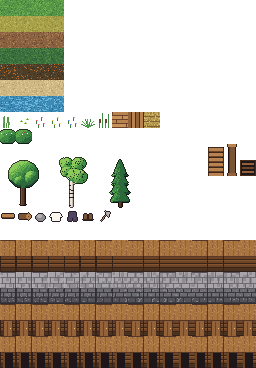
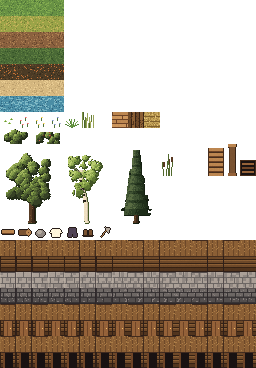
Placeholders redrawn in the chosen manner: A1 people, middle palette, B4 forms
Trees from leaf clumps (oak over 4x5 cells, slanted birch, tall spruce),
uneven bushes, tall-grass tufts and cattails, log-toned wall tops and
ceilings, people A1 (with a smaller head and a mouth, less doll-like)
from the front, side and back with steps, one dark warm outline on
people and interactive things, soft shade edges on the world, and the
middle palette with deeper half-tones over the whole atlas.

diff --git a/tools/art/make_placeholders.py b/tools/art/make_placeholders.py
@@ -1,10 +1,12 @@
 #!/usr/bin/env python3
-"""Temporary art for the base pack: a tile atlas, a chibi sheet and the
+"""Temporary art for the base pack: a tile atlas, a people sheet and the
 visual definitions that tie content ids to them (content/base/visuals.json).
 
-These are placeholders in the spirit of probe B2 (tile 16, chibi 20x32,
-coloured outline), drawn by code so the game can run before production art
-exists. Production art replaces the PNGs and visuals.json; no code changes.
+Placeholders in the manner chosen by the author (ART_STANDARD v2, probe B4):
+the middle palette, leaf-clump trees, earthy forms, A1 people (18x32, about
+three heads) with one dark outline, soft shade edges on the world. Drawn by
+code so the game runs before production art exists; production art
+replaces the PNGs and visuals.json without code changes.
 Usage: tools/art/make_placeholders.py   (writes into content/base/)
 """
 import json
@@ -19,13 +21,18 @@ ROOT = Path(__file__).resolve().parents[2]
 sys.path.insert(0, str(ROOT / "tools" / "art_probes"))
 sys.argv = [sys.argv[0], "/tmp"]  # make_probes reads an output dir it will not use here
 import make_probes as mp  # noqa: E402
+import make_probe_b3 as b3  # noqa: E402
+import make_probe_b4 as b4  # noqa: E402
 from make_probes import P, hx, lerp, h2, vnoise  # noqa: E402
+
+MIDDLE = b4.PALETTES["middle"]
 
 T = 16
 OUT = ROOT / "content" / "base"
-STYLE = dict(outline="colored", detail=1)
-# Characters and interactive things get a darker outline than the scenery (ADR-0001).
-STRONG = dict(outline="ink", detail=1)
+# The world: no full outline (soft shade edges are drawn by the B4 drawers).
+STYLE = dict(outline=None, detail=1)
+# People and interactive things: one dark warm outline (ADR-0001 revision).
+STRONG = "people"
 
 
 class Atlas:
@@ -42,6 +49,22 @@ class Atlas:
             "atlas": "art/tiles.png", "rect": [col * T, row * T, w // variants, h],
             "origin": list(origin), "mode": mode, "variants": variants,
         })
+
+
+def strong(img):
+    """The people/interactive outline: one dark warm colour around the shape."""
+    w, h = img.size
+    src = img.load()
+    out = img.copy()
+    dst = out.load()
+    for y in range(h):
+        for x in range(w):
+            if src[x, y][3]:
+                continue
+            if any(0 <= x + dx < w and 0 <= y + dy < h and src[x + dx, y + dy][3]
+                   for dx, dy in ((1, 0), (-1, 0), (0, 1), (0, -1))):
+                dst[x, y] = b4.OUTLINE_PEOPLE
+    return out
 
 
 def ground_tile(kind, variant):
@@ -143,8 +166,8 @@ def wall(kind, mask, opened=False):
         top = [hx("6d6b72"), hx("8f8c92"), hx("a8a4a8"), hx("c4c0c0")]
         face = [hx("3a3840"), hx("55535a"), hx("6d6b72"), hx("85828a")]
     else:
-        top = [hx("6e4428"), hx("93613a"), hx("a8743f"), hx("c08a52")]
-        face = [hx("3a2416"), hx("4e3220"), hx("6e4428"), hx("84552f")]
+        top = [b4.R["log"][1], b4.R["log"][2], b4.R["log"][3], b4.R["log"][4]]
+        face = [b4.R["log"][0], b4.R["log"][1], b4.R["log"][2], b4.R["log"][3]]
     for y in range(2 * T):
         for x in range(T):
             wx = x + mask * 3  # vary the pattern a little between variants
@@ -214,7 +237,7 @@ def door_open():
     d.rectangle((0, 6, 15, 31), hx("2a1e1c"))
     d.rectangle((1, 6, 3, 31), P["wood"][1])
     d.line((1, 6, 1, 31), P["wood"][3])
-    return mp.outline(img, STRONG)
+    return strong(img)
 
 
 def icon(kind):
@@ -243,7 +266,7 @@ def icon(kind):
     elif kind == "axe":
         d.line((5, 12, 11, 4), P["wood"][3])
         d.polygon([(9, 3), (13, 4), (12, 8)], P["stone"][3])
-    return mp.outline(img, STRONG)
+    return strong(img)
 
 
 def building_tiles():
@@ -262,9 +285,11 @@ def building_tiles():
     cp = ceiling.load()
     for y in range(T):
         for x in range(T):
-            c = P["wood"][2] if (x // 4) % 2 == 0 else P["wood"][3]
+            c = b4.R["log"][2] if (x // 4) % 2 == 0 else b4.R["log"][3]
             if x % 4 == 3:
-                c = P["wood"][0]
+                c = b4.R["log"][0]
+            if h2(x, y, 13) > 0.9:
+                c = b4.R["log"][1]
             cp[x, y] = c
     thatch = Image.new("RGBA", (T, T))
     tp = thatch.load()
@@ -291,45 +316,50 @@ def building_tiles():
     d.line((5, 2, 5, 31), P["bark"][1])
     d.rectangle((4, 0, 11, 2), P["wood"][3])
     d.rectangle((4, 29, 11, 31), P["wood"][2])
-    return floor, ceiling, thatch, mp.outline(stairs, STYLE), mp.outline(column, STYLE)
+    return floor, ceiling, thatch, b4.soft_edge(stairs, P["wood"][0]), b4.soft_edge(column, P["bark"][0])
 
 
-def chibi_sheet():
-    """Rows: S, SE, E, NE, N (W-side rows are mirrored at run time).
-    Columns: idle, step A, step B. Frames 48x48, feet at (24, 44)."""
+def people_sheet():
+    """A1 people (ART_STANDARD v2). Rows: S, SE, E, NE, N (the west side is
+    mirrored at run time); columns: idle, step A, step B. Frames 48x48,
+    feet at (24, 45)."""
     F = 48
     sheet = Image.new("RGBA", (3 * F, 5 * F), (0, 0, 0, 0))
-    look = dict(mp.LOOKS["player"])
     for row, view in enumerate(["s", "se", "e", "ne", "n"]):
         for col in range(3):
-            spr = chibi_view(20, 32, look, view, col)
-            sheet.alpha_composite(spr, (col * F + F // 2 - spr.width // 2, row * F + 45 - spr.height + (1 if col else 0)))
-    return sheet
+            spr = person_view("villager", view, col)
+            sheet.alpha_composite(spr, (col * F + F // 2 - spr.width // 2, row * F + 46 - spr.height + (1 if col else 0)))
+    return b3.tone(sheet, MIDDLE, people=True)
 
 
-def chibi_view(w, h, look, view, frame):
-    """The probe chibi, turned: back views show hair, side views one eye."""
-    spr = mp.chibi(w, h, look, dict(outline=None, detail=1))
+def person_view(look_name, view, frame):
+    """The A1 figure turned: from behind the head is hair, from the side the
+    face shifts toward the way it looks; steps move the legs."""
+    f = b4.PEOPLE["A1b"]
+    look = b4.LOOKS[look_name]
+    spr = b3.figure(look, f, None)
     px = spr.load()
+    h = f["h"]
+    head_bottom = int(h * f["head"]) + 2
+    skin = [c[:3] for c in look["skin"]]
     if view in ("n", "ne"):
-        # Cover the face with hair.
-        for y in range(spr.height):
+        for y in range(head_bottom):
             for x in range(spr.width):
                 c = px[x, y]
-                if c[3] and c[:3] in [s[:3] for s in look["skin"]] + [look["eyes"][:3], P["ink"][:3], P["white"][:3]] \
-                        and y < h * 0.5:
-                    px[x, y] = look["hair"][1]
+                if c[3] and (c[:3] in skin or c[:3] != look["hair"][1][:3] and y > 2 and c[:3] not in [k[:3] for k in look["hair"]]):
+                    px[x, y] = look["hair"][1] if x < spr.width * 0.6 else look["hair"][0]
     elif view in ("e", "se"):
         shift = 2 if view == "e" else 1
-        face = spr.crop((0, int(h * 0.25), spr.width, int(h * 0.45)))
-        spr.paste(Image.new("RGBA", face.size, (0, 0, 0, 0)), (0, int(h * 0.25)))
-        spr.alpha_composite(face, (shift, int(h * 0.25)))
+        top = int(h * f["head"] * 0.35)
+        face = spr.crop((0, top, spr.width, head_bottom))
+        spr.paste(Image.new("RGBA", face.size, (0, 0, 0, 0)), (0, top))
+        spr.alpha_composite(face, (shift, top))
     if frame:
-        legs_y = int(h * 0.82) + 2
+        legs_y = int(h * f["legs"]) + 3
         legs = spr.crop((0, legs_y, spr.width, spr.height))
         spr.paste(Image.new("RGBA", legs.size, (0, 0, 0, 0)), (0, legs_y))
         spr.alpha_composite(legs, (1 if frame == 1 else -1, legs_y))
-    return mp.outline(spr, STRONG)
+    return strong(spr)
 
 
 def main():
@@ -339,22 +369,17 @@ def main():
         for v in range(4):
             strip.alpha_composite(ground_tile(kind, v), (v * T, 0))
         a.put(0, row, strip, "base:" + kind, (0, T), "flat", variants=4)
-    for col, kind in enumerate(["tall_grass", "clover", "flower_red", "flower_yellow", "flower_blue", "fern", "reeds"]):
+    for col, kind in enumerate(["clover", "flower_red", "flower_yellow", "flower_blue", "fern"]):
         a.put(col, 7, small_plant(kind), "base:" + kind, (0, T), "flat")
-    a.put(0, 8, fit(mp.bush(T, STYLE, 3), T, T), "base:bush", (0, T), "tall")
-    berry = mp.bush(T, dict(outline=None, detail=1), 5)
-    bpx = berry.load()
-    for (x, y) in ((4, 5), (8, 7), (11, 4), (6, 9)):
-        if bpx[x, y][3]:
-            bpx[x, y] = hx("c8324a")
-    a.put(1, 8, fit(mp.outline(berry, STYLE), T, T), "base:berry_bush", (0, T), "tall")
-    for col, (kind, src) in enumerate([("oak", "leaf"), ("birch", "birch"), ("spruce", "spruce")]):
-        if src == "leaf":
-            spr = mp.tree(T, "leaf", STYLE, 7)
-        else:
-            import make_probe_b2 as b2  # noqa: E402
-            spr = b2.birch(STYLE, 4) if src == "birch" else b2.spruce(STYLE, 4)
-        a.put(col * 3, 9, fit(spr, 3 * T, 4 * T), "base:" + kind, (T, 4 * T), "tall")
+    a.put(5, 7, fit(b4.tall_tuft(3), T, T), "base:tall_grass", (0, T), "flat")
+    # Uneven bushes (B4), 32 x 16 over their one cell.
+    a.put(0, 8, fit(b4.shrub(3), 2 * T, T), "base:bush", (8, T), "tall")
+    a.put(2, 8, fit(b4.shrub(5, berries=True), 2 * T, T), "base:berry_bush", (8, T), "tall")
+    # Trees from leaf clumps (B4): the oak over 4 x 5 cells, birch and spruce 3 x 5.
+    a.put(0, 9, fit(b4.oak(7), 4 * T, 5 * T), "base:oak", (24, 5 * T), "tall")
+    a.put(4, 9, fit(b4.birch(4), 3 * T, 5 * T), "base:birch", (16, 5 * T), "tall")
+    a.put(7, 9, fit(b4.spruce(4), 3 * T, 5 * T), "base:spruce", (16, 5 * T), "tall")
+    a.put(10, 9, fit(b4.cattails(2), T, 2 * T), "base:reeds", (0, 2 * T), "tall")
     # Walls and doors join by neighbours (mask N=1 E=2 S=4 W=8): 16 variants a row.
     for row, kind in ((15, "wood_wall"), (17, "stone_wall"), (19, "wood_door")):
         a.put(0, row, wall_set(kind), "base:" + kind, (0, 2 * T), "tall", variants=16)
@@ -365,7 +390,7 @@ def main():
         if v["for"] == "base:wood_door":
             v["states"] = {"open": opened["rect"]}
     for col, kind in enumerate(["plank", "log", "stone", "linen_shirt", "work_trousers", "boots", "axe"]):
-        a.put(col, 13, icon(kind), "base:" + kind, (0, T), "item")
+        a.put(col, 14, icon(kind), "base:" + kind, (0, T), "item")
     floor, ceiling, thatch, stairs, column = building_tiles()
     a.put(7, 7, floor, "base:wood_floor", (0, T), "flat")
     a.put(8, 7, ceiling, "base:wood_ceiling", (0, T), "cover")
@@ -384,8 +409,9 @@ def main():
             v["states"] = {"down": down_v["rect"]}
     a.put(14, 9, column, "base:wood_column", (0, 2 * T), "tall")
     (OUT / "art").mkdir(parents=True, exist_ok=True)
-    a.img.save(OUT / "art" / "tiles.png")
-    chibi_sheet().save(OUT / "art" / "chibi_placeholder.png")
+    # The middle palette of B4 over everything, and its light grain.
+    b3.grain(b3.tone(a.img, MIDDLE), dict(MIDDLE, grain=0.03), 7).save(OUT / "art" / "tiles.png")
+    people_sheet().save(OUT / "art" / "chibi_placeholder.png")
     a.visuals.append({
         "id": "base:visual/humanoid_adult", "kind": "visual", "for": "base:humanoid_adult",
         "atlas": "art/chibi_placeholder.png", "rect": [0, 0, 48, 48], "origin": [24, 45], "mode": "character",

diff --git a/tools/art_probes/make_probe_b4.py b/tools/art_probes/make_probe_b4.py
@@ -38,11 +38,14 @@ R = {
 }
 PALETTES = {
     "light": dict(sat=0.95, contrast=1.0, warm=0.03, dark=0.0, grain=0.035, people_sat=0.95, green_to=0.27),
-    "middle": dict(sat=0.84, contrast=1.0, warm=0.07, dark=0.025, grain=0.04, people_sat=0.88, green_to=0.24),
+    "middle": dict(sat=0.84, contrast=1.0, warm=0.07, dark=0.025, grain=0.04, people_sat=0.88, green_to=0.24,
+                   mid_sat=0.12),  # chosen: deeper half-tones, not darker
     "earthy": dict(sat=0.7, contrast=1.03, warm=0.11, dark=0.05, grain=0.05, people_sat=0.78, green_to=0.21),
 }
 PEOPLE = {
     "A1": dict(w=18, h=32, head=0.33, head_w=0.66, legs=0.72, eyes=(1, 1), shoulders=0.36, leg_gap=0.05),
+    # A1 as chosen, a little less doll-like: smaller head, a mouth.
+    "A1b": dict(w=18, h=32, head=0.315, head_w=0.6, legs=0.71, eyes=(1, 1), shoulders=0.36, leg_gap=0.05, mouth=True),
     "A2": dict(w=17, h=32, head=0.30, head_w=0.6, legs=0.68, eyes=(1, 1), shoulders=0.36, leg_gap=0.06, strap=True),
 }
 OUTLINE_PEOPLE = (44, 32, 30, 255)

diff --git a/tools/art_probes/make_probe_b3.py b/tools/art_probes/make_probe_b3.py
@@ -55,7 +55,7 @@ def tone(img, prof, people=False):
                 h, s, v = colorsys.rgb_to_hsv(*(k / 255 for k in key))
                 if 0.15 < h < 0.5 and "green_to" in prof:  # greens toward olive
                     h = h + (prof["green_to"] - h) * 0.5
-                s *= sat
+                s = min(1.0, s * sat * (1 + prof.get("mid_sat", 0.0) * (1 - abs(v - 0.5) * 2)))
                 v = 0.5 + (v - 0.5) * prof["contrast"] - prof["dark"]
                 r, g, b = colorsys.hsv_to_rgb(h, s, max(0.0, min(1.0, v)))
                 # Warmth by channel gains, so darks stay dark (no grey haze).
@@ -166,6 +166,8 @@ def figure(look, f, outline_kind):
         for yy in range(eh):
             for xx in range(ew):
                 px[ex + xx, ey + yy] = lerp(look["eyes"], P["ink"], 0.55)
+    if f.get("mouth"):
+        px[w // 2 + 1, ey + eh + 2] = lerp(skin[0], P["ink"], 0.35)
     return outline(spr, outline_kind)
 
 

diff --git a/docs/PROGRESS.md b/docs/PROGRESS.md
@@ -23,7 +23,7 @@
 
 ## Известные ограничения
 
-- Графика — временные заглушки (`tools/art/make_placeholders.py`): нет переходных тайлов между типами грунта, интерфейс минимальный. Производственный арт — по брифам `docs/art/briefs/`.
+- Графика — временные заглушки (`tools/art/make_placeholders.py`) в новой манере (стандарт v2: A1 + средняя палитра B4); нет переходных тайлов между типами грунта, интерфейс минимальный. Производственный арт — по брифам `docs/art/briefs/` (готовы к генерации).
 
 - Интерес-менеджмент — радиус в чанках; правила крыш и закрытых этажей придут со строительством.
 - Первый импорт проекта в Godot 4.7.2 падает на выходе из-за расширения SQLite (импорт при этом завершён).
